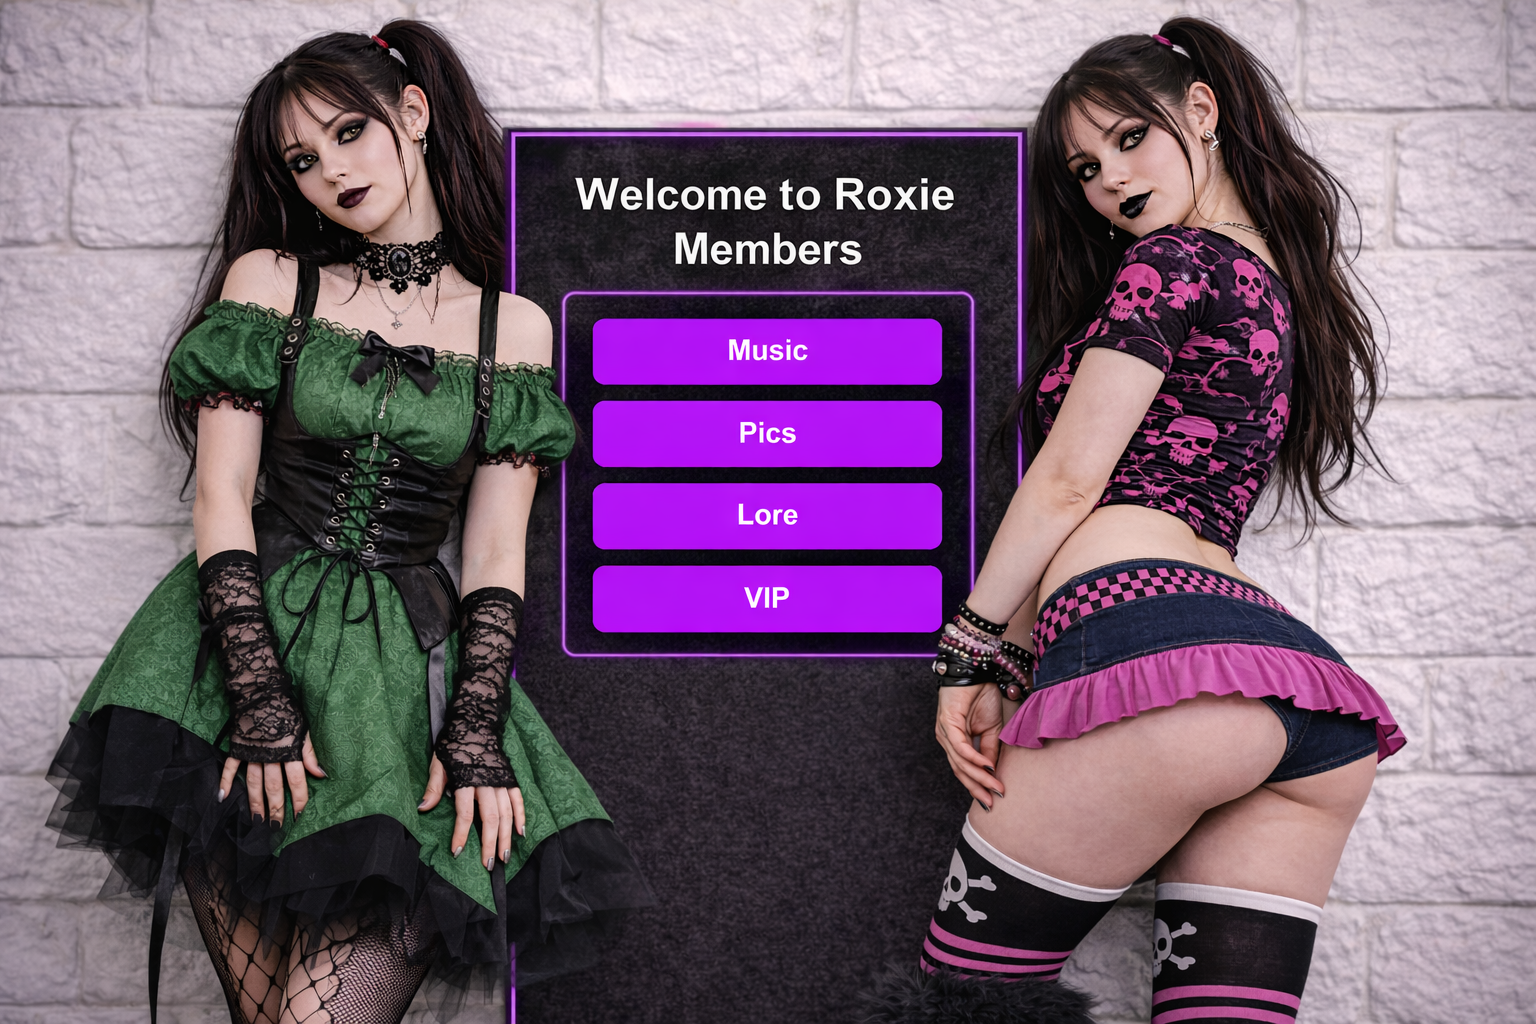
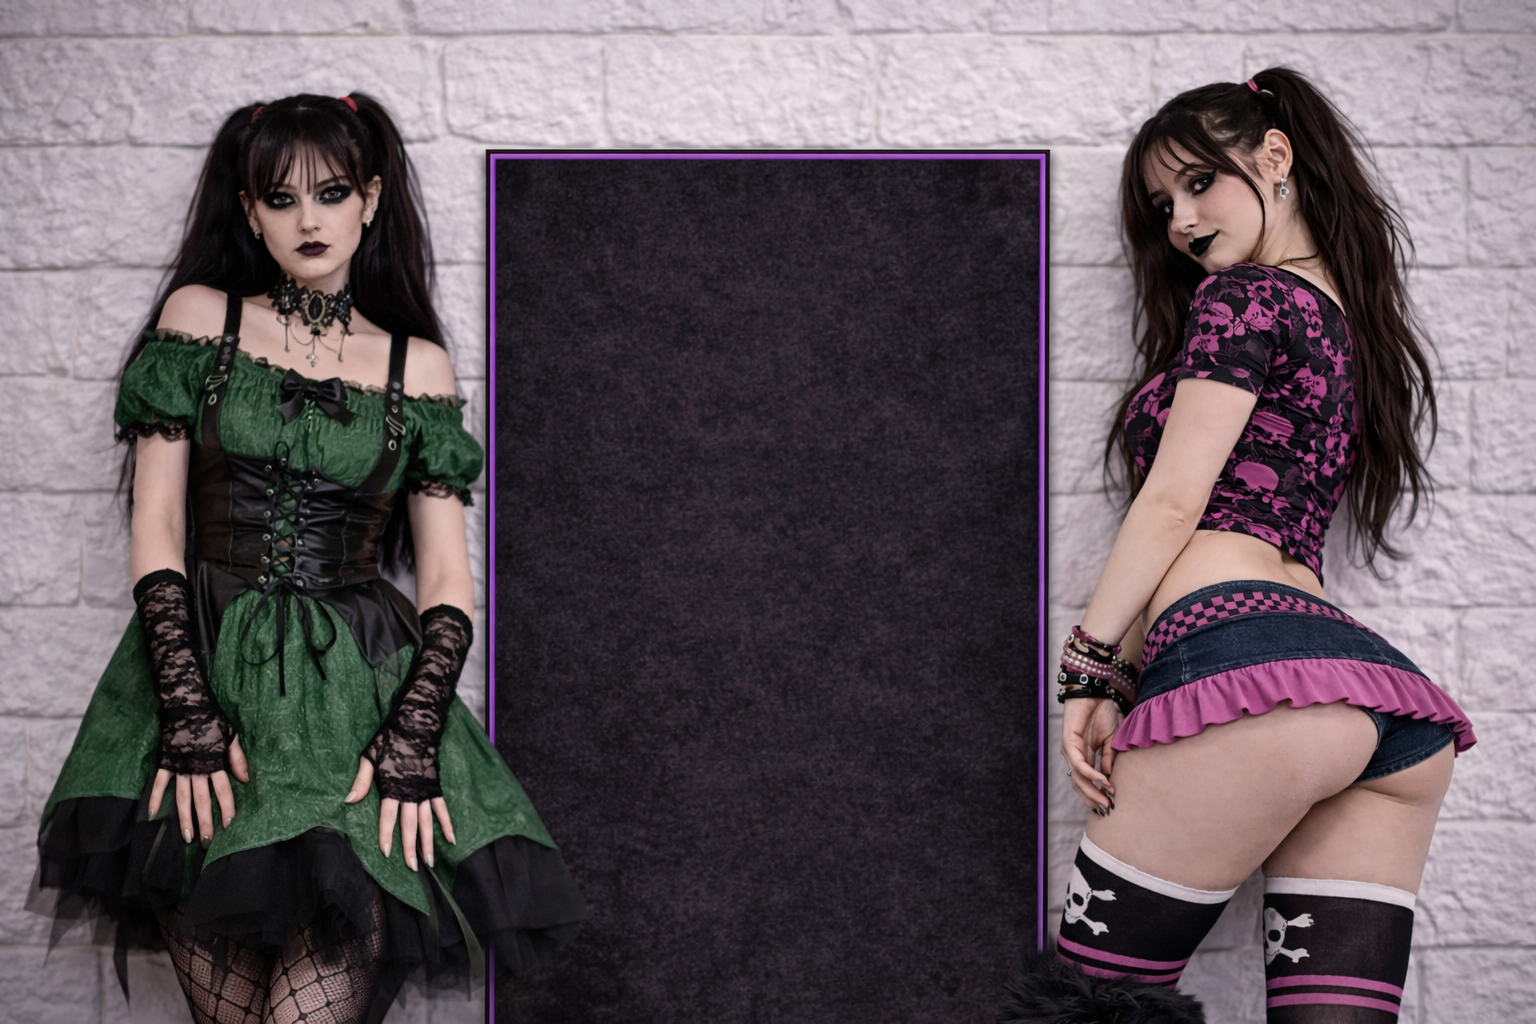
Add files via upload

diff --git a/home.html b/home.html
@@ -12,9 +12,10 @@
     body {
       min-height: 100vh;
       background-image: url("homebg.png");
-      background-size: cover;
+      background-size: contain;
       background-position: center;
       background-repeat: no-repeat;
+      background-color: #000;
       font-family: Arial, sans-serif;
       overflow: hidden;
       position: relative;
@@ -28,50 +29,109 @@
       z-index: 1;
     }
 
+    .video-container {
+      position: absolute;
+      top: 15%;
+      left: 50%;
+      transform: translateX(-50%);
+      width: 420px;
+      aspect-ratio: 9 / 16;
+      border-radius: 14px;
+      overflow: hidden;
+      z-index: 10;
+      box-shadow:
+        0 0 18px rgba(212, 76, 255, 0.5),
+        0 0 35px rgba(139, 0, 255, 0.25);
+    }
+
+    .video-container iframe {
+      width: 100%;
+      height: 100%;
+      border: none;
+    }
+
     .button-container {
       position: absolute;
       top: 50%;
       left: 50%;
-      transform: translate(-50%, -32%);
+      transform: translate(-50%, 50%);
       display: flex;
       flex-direction: column;
-      gap: 18px;
-      width: 340px;
-      z-index: 2;
+      gap: 16px;
+      width: 275px;
+      z-index: 10;
     }
 
     .button-container a {
-      display: block;
+      display: flex;
+      align-items: center;
+      justify-content: center;
       width: 100%;
-      height: 64px;
+      height: 52px;
       border-radius: 12px;
-      text-indent: -9999px;
-      overflow: hidden;
-      background: transparent;
+      text-decoration: none;
+      font-size: 18px;
+      font-weight: bold;
+      color: white;
+      background: linear-gradient(to bottom, #d63bff, #8b00ff);
+      border: 2px solid #c44dff;
+      box-shadow:
+        0 0 12px rgba(212, 76, 255, 0.7),
+        inset 0 0 10px rgba(255, 255, 255, 0.15);
+      transition: 0.2s ease;
+      position: relative;
+      z-index: 20;
+    }
+
+    .button-container a:hover {
+      transform: scale(1.03);
+      background: linear-gradient(to bottom, #eb6cff, #a100ff);
+      box-shadow:
+        0 0 18px rgba(212, 76, 255, 0.9),
+        inset 0 0 12px rgba(255, 255, 255, 0.2);
     }
 
     @media (max-width: 768px) {
       body {
+        background-size: cover;
         background-position: center;
       }
 
+      .video-container {
+        width: 220px;
+        top: 14%;
+      }
+
       .button-container {
-        width: 280px;
-        transform: translate(-50%, -28%);
+        width: 235px;
+        transform: translate(-50%, -22%);
+        gap: 12px;
       }
 
       .button-container a {
-        height: 54px;
+        height: 46px;
+        font-size: 16px;
       }
     }
   </style>
 </head>
 <body>
+
+  <div class="video-container">
+    <iframe 
+      src="https://www.youtube.com/embed/dQ2fNorrgao"
+      title="Roxie Video"
+      frameborder="0"
+      allow="accelerometer; autoplay; clipboard-write; encrypted-media; gyroscope; picture-in-picture"
+      allowfullscreen>
+    </iframe>
+  </div>
+
   <div class="button-container">
-    <a href="music.html">Music</a>
+    <a href="videos.html">Videos</a>
     <a href="pics.html">Pics</a>
+    <a href="music.html">Music</a>
     <a href="lore.html">Lore</a>
-    <a href="vip.html">VIP</a>
   </div>
 </body>
 </html>
